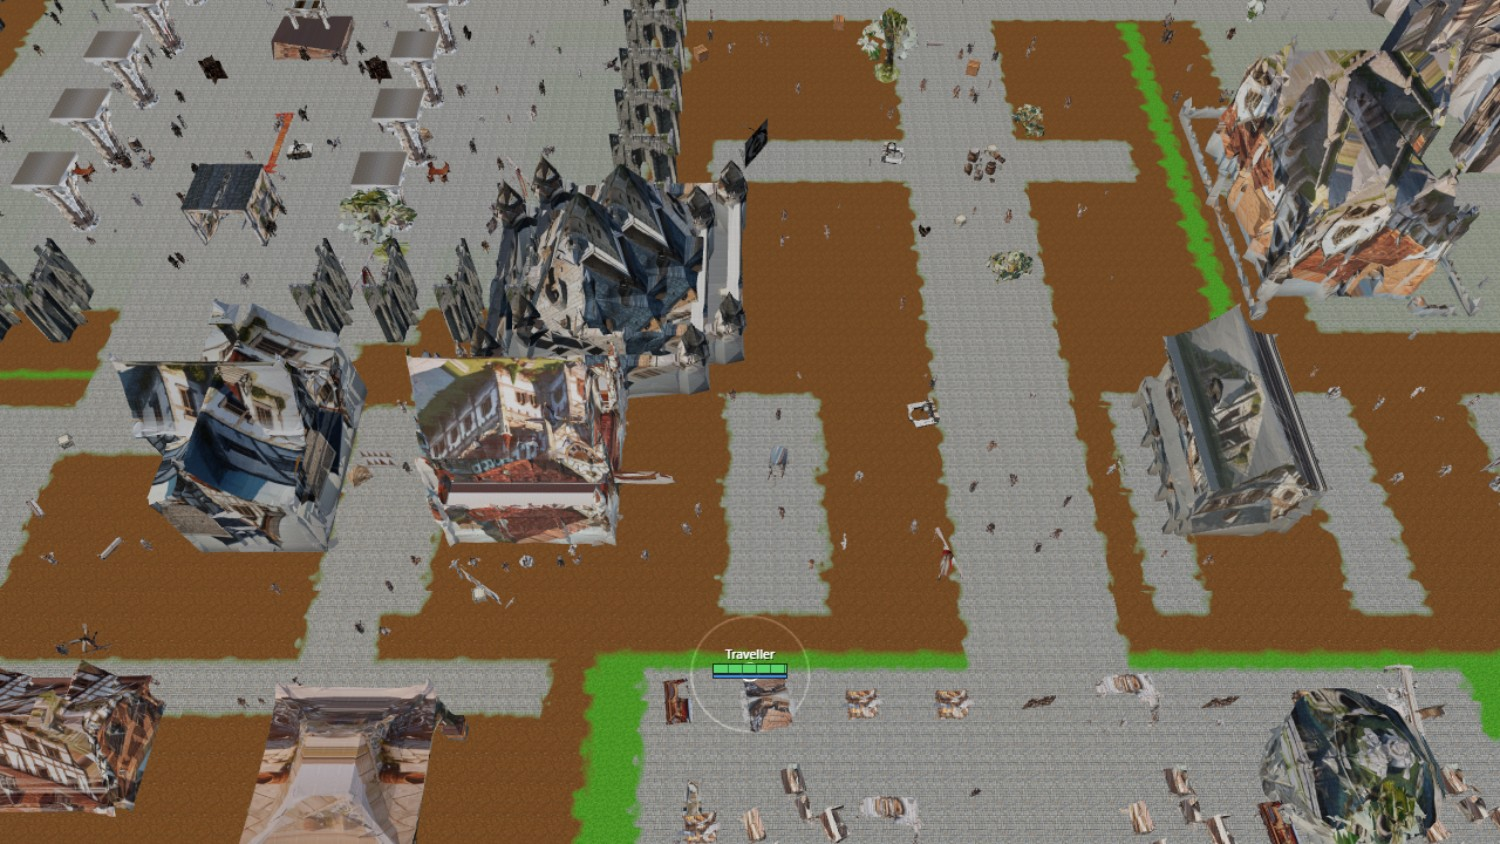
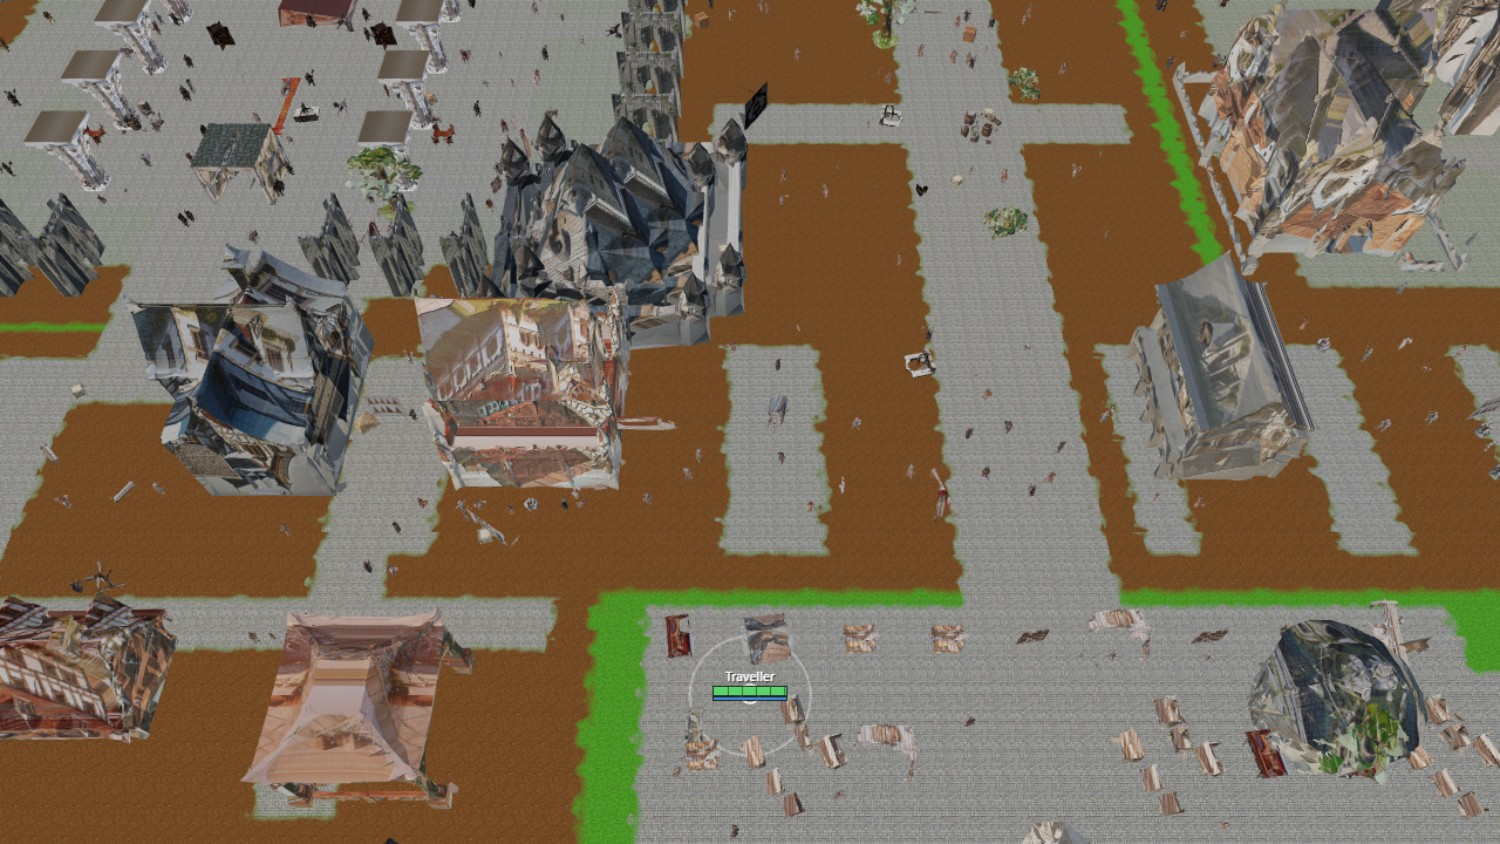
Relief from the picture, and a colour strength found by looking
The concept image was already supplying colour; it can supply surface too. A
window in the art is a dark rectangle with a hard edge and a timber is a dark
line with two, so differencing the image's own luminance across a texel turns
both back into relief that catches the light. No tiling material can do that,
because no tiling material knows where the window is. Two extra fetches, and it
is folded into the normal along the axis the image was projected on.

The colour strength is now two thirds rather than seven eighths, set by looking
at a whole district at once rather than one building up close. Taking only a
timid hue was the mistake the sixteen-band version made, but taking nearly all
of it is a second mistake in the other direction: the mesh is not the shape the
picture was of, so at full strength a street reads as photographs wrapped round
lumps. Two thirds keeps the windows and the roof tiles and lets the stone
assert itself, with the grain term turned up to compensate.

diff --git a/src/render/triplanar.ts b/src/render/triplanar.ts
@@ -90,6 +90,8 @@ export interface MaterialSpec {
    * material's grain to modulate it by.
    */
   colourMix?: [number, number];
+  /** How hard the image's own edges push the surface normal around. */
+  relief?: number;
 }
 
 /**
@@ -106,6 +108,8 @@ export interface AssetFace {
   id: string;
   /** Object-space extents of the mesh, which the image is stretched over. */
   size: [number, number, number];
+  /** Pixels along one side of the map, for the relief gradient's step. */
+  resolution?: number;
   /**
    * How much the mesh is enlarged when placed.
    *
@@ -120,15 +124,21 @@ export interface AssetFace {
 /**
  * Colour strength, and how much of the material's grain rides on top of it.
  *
- * High on both. The image is the thing that looked right, and taking only a
- * timid hue from it was the mistake the sixteen-band version made: what the
- * eye reads as "a building" is the dark window and the dark beam, and those
- * are luminance, not hue. The grain term puts the stone and tile back over it.
+ * Found by looking rather than reasoned. Taking only a timid hue was the
+ * mistake the sixteen-band version made — what the eye reads as a building is
+ * the dark window and the dark beam, and those are luminance, not hue — but
+ * taking nearly all of it is a second mistake: the mesh is not the shape the
+ * picture was of, so at full strength a street reads as photographs wrapped
+ * round lumps. Two thirds keeps the windows and lets the stone assert itself,
+ * and the grain term is turned up to compensate.
  */
-const DEFAULT_COLOUR_MIX: [number, number] = [0.86, 0.72];
+const DEFAULT_COLOUR_MIX: [number, number] = [0.68, 0.85];
 
 /** What a delit albedo averages, used to normalise the material's grain. */
 const TEXTURE_MEAN_LUMA = 0.55;
+
+/** How hard the concept image's edges push the normal. Enough to catch light. */
+const DEFAULT_RELIEF = 2.6;
 
 const placeholderImages = new Map<string, HTMLCanvasElement>();
 
@@ -208,6 +218,7 @@ uniform vec3 triTopTint;
 uniform sampler2D triFace;
 uniform vec3 triFaceSize;    // object-space extents the image is stretched over
 uniform vec2 triColourMix;   // x: how much of the image, y: how much grain
+uniform vec2 triFaceRelief;  // x: relief strength, y: one texel of the image
 
 varying vec3 vTriPos;
 varying mat3 vTriBasis;
@@ -233,6 +244,14 @@ vec3 triFaceColour( vec3 p, vec3 w ) {
   float uz = clamp( p.x / max( triFaceSize.x, 1e-3 ) + 0.5, 0.0, 1.0 );
   return texture2D( triFace, vec2( ux, v ) ).rgb * w.x
        + texture2D( triFace, vec2( uz, v ) ).rgb * ( w.y + w.z );
+}
+
+/** Where the dominant plane reads the image, for the relief gradient. */
+vec2 triFaceUv( vec3 p, vec3 w ) {
+  float v = 1.0 - clamp( p.y / max( triFaceSize.y, 1e-3 ), 0.0, 1.0 );
+  float ux = clamp( p.z / max( triFaceSize.z, 1e-3 ) + 0.5, 0.0, 1.0 );
+  float uz = clamp( p.x / max( triFaceSize.x, 1e-3 ) + 0.5, 0.0, 1.0 );
+  return vec2( mix( uz, ux, step( 0.5, w.x ) ), v );
 }
 
 float triLuma( vec3 c ) {
@@ -292,6 +311,7 @@ vec3 triTopCol =
   + texture2D( triTopMap, triPy * triScale.y ).rgb * triW.y
   + texture2D( triTopMap, triPz * triScale.y ).rgb * triW.z;
 vec3 triAlbedo = mix( triSideCol * triSideTint, triTopCol * triTopTint, triUp );
+vec2 triFaceGrad = vec2( 0.0 );
 
 // The image supplies the colour *and* its own light and dark — a window is a
 // dark rectangle, a beam is a dark line, and neither survives a transfer that
@@ -307,6 +327,18 @@ vec3 triAlbedo = mix( triSideCol * triSideTint, triTopCol * triTopTint, triUp );
   // Darkening the lowest tenth of every mesh is not occlusion, but it is where
   // occlusion would be, and it costs one smoothstep.
   face *= mix( 0.62, 1.0, smoothstep( 0.0, 0.09, vTriPos.y / max( triFaceSize.y, 1e-3 ) ) );
+
+  // Relief from the picture. A window in the concept art is a dark rectangle
+  // with a hard edge, and a timber is a dark line with two: differencing the
+  // image's own luminance across a texel turns both back into surface, which
+  // no tiling material can do because no tiling material knows where the
+  // window is. Two extra fetches.
+  vec2 triFaceAt = triFaceUv( vTriPos, triW );
+  float triFaceL = triLuma( face );
+  triFaceGrad = vec2(
+    triLuma( texture2D( triFace, triFaceAt + vec2( triFaceRelief.y, 0.0 ) ).rgb ) - triFaceL,
+    triLuma( texture2D( triFace, triFaceAt + vec2( 0.0, triFaceRelief.y ) ).rgb ) - triFaceL
+  ) * triFaceRelief.x;
   // Clamped, because a pale material would otherwise multiply the picture past
   // white and a dark one would put it out altogether. The band is wide enough
   // for stone to read as stone and narrow enough that nothing is lost.
@@ -372,6 +404,9 @@ function patch(shader: WebGLProgramParametersWithUniforms, uniforms: Record<stri
            triUnpack( triTnZ.rg, triNrmScale.y ), triFaceN, triW ),
          triUp
        ) );
+       // The image's relief, folded in along the axis it was projected on.
+       vec3 triTangent = mix( vec3( 1.0, 0.0, 0.0 ), vec3( 0.0, 0.0, 1.0 ), step( 0.5, triW.x ) );
+       triN = normalize( triN - triTangent * triFaceGrad.x + vec3( 0.0, 1.0, 0.0 ) * triFaceGrad.y );
        normal = normalize( vTriBasis * triN );`,
     );
 }
@@ -554,6 +589,7 @@ export class MaterialLibrary {
       // one that has not loaded, and a transfer that multiplies by the picture
       // would paint every building black for the first second of a map.
       triColourMix: { value: [0, 0] },
+      triFaceRelief: { value: [spec.relief ?? DEFAULT_RELIEF, 1 / (face?.resolution ?? 256)] },
     };
 
     const material = new MeshStandardMaterial({

diff --git a/README.md b/README.md
@@ -111,8 +111,9 @@ Buildings are stamped into the nav grid as rectangles when the city is planned
 rather than left to blocking props, because a circle around a terrace either
 leaves its corners walkable or eats two metres of street on each side.
 
-![The market square at street level: striped awnings over trestle stalls, the
-stone market cross, townsfolk and a dog on the cobbles](docs/screenshot-crowd.jpg)
+![The market square at street level: trestle stalls on cobbles with townsfolk
+among them, each piece carrying the colour of the image it was reconstructed
+from](docs/screenshot-street.jpg)
 
 ![The buildings gallery: a portal arch, a stone keep, a tavern, a granary and a
 dragon statue on open ground, each captioned with its name, world size and
